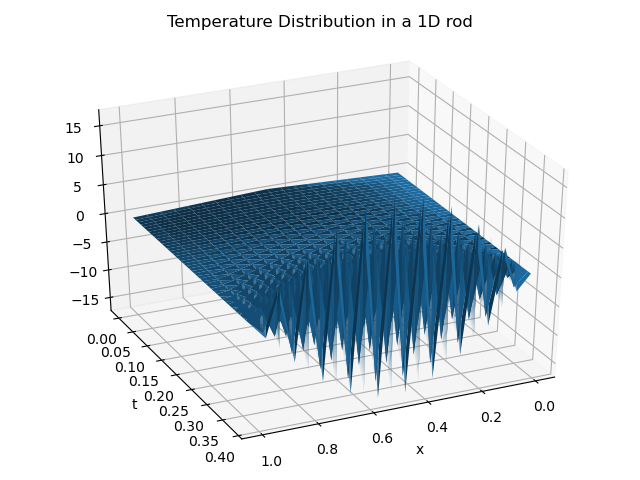
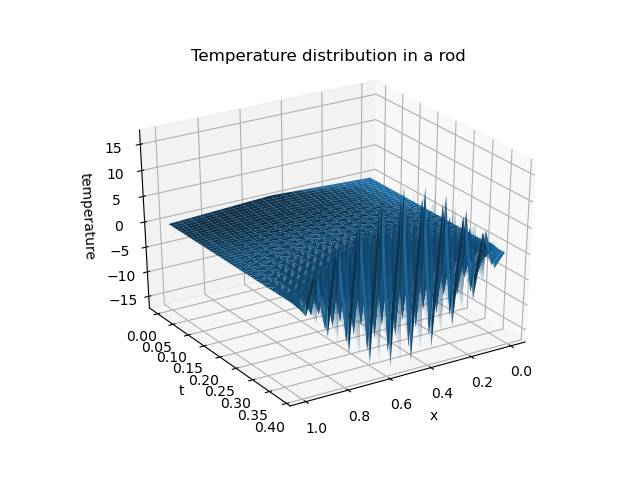
heat equation finally done

diff --git a/3-PDE/heat/problem3.py b/3-PDE/heat/problem3.py
@@ -61,7 +61,7 @@ def heatmap(x, v, dt, k) :
     plt.plot(x, v)
     return plt
 
-x, t, u, delta_t = heat_solver(phi, a, b, hx, s=0.48)
+x, t, u, delta_t = heat_solver(phi, a, b, hx, s=0.51)
 
 def animate(k) :
     return heatmap(x, u[k], delta_t, k)
@@ -74,4 +74,8 @@ fig = plt.figure()
 ax = fig.add_subplot(111, projection='3d')
 space, time = np.meshgrid(x, t) 
 ax.plot_surface(space, time, u)
+ax.set_title((f"Temperature distribution in a rod\n"))
+ax.set_xlabel('x')
+ax.set_ylabel('t')
+ax.set_zlabel('temperature')
 plt.show()
